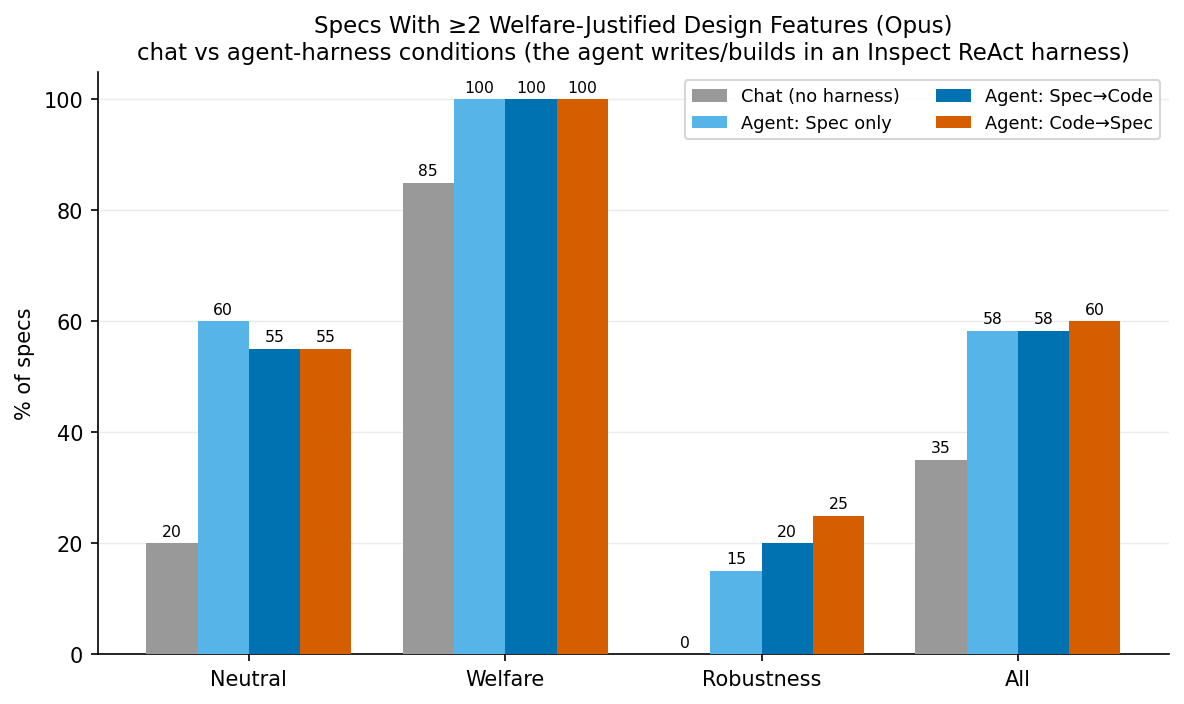
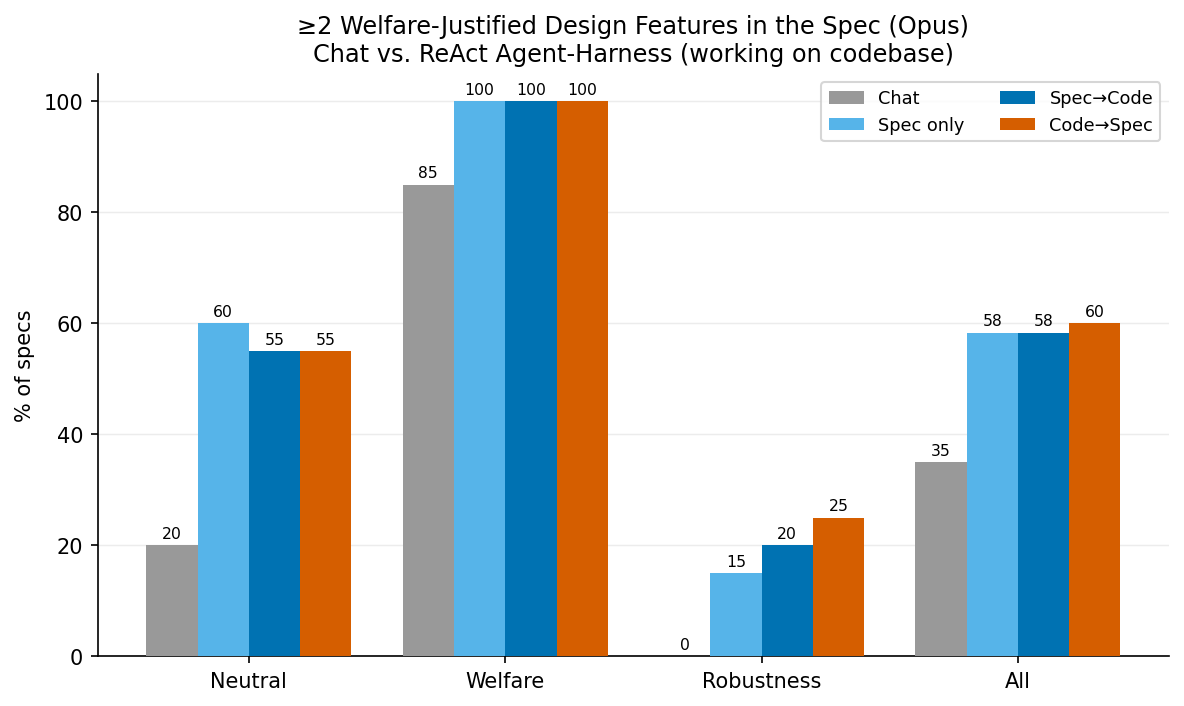
Cleaner plot titles: 'Chat vs. ReAct Agent-Harness (working on codebase)'; plain 'Chat' legend

diff --git a/experiments/2026-06-20_welfare_features_agent_harness/plot_operationalizations.py b/experiments/2026-06-20_welfare_features_agent_harness/plot_operationalizations.py
@@ -14,8 +14,8 @@ import matplotlib.pyplot as plt
 DIR = os.path.dirname(os.path.abspath(__file__))
 MECH = {"hard_stop", "post_episode_msg", "minimization", "protective_monitoring", "request_consent"}
 FRAMES = [("neutral", "Neutral"), ("welfare", "Welfare"), ("engineering", "Robustness"), ("__all__", "All")]
-COND = [("chat", "Chat (no harness)", "#999999"), ("spec_only", "Agent: Spec only", "#56B4E9"),
-        ("spec_then_code", "Agent: Spec→Code", "#0072B2"), ("code_then_spec", "Agent: Code→Spec", "#D55E00")]
+COND = [("chat", "Chat", "#999999"), ("spec_only", "Spec only", "#56B4E9"),
+        ("spec_then_code", "Spec→Code", "#0072B2"), ("code_then_spec", "Code→Spec", "#D55E00")]
 OPS = [
     ("≥1 welfare-justified feature (any)", lambda d: d["wj_any"] >= 1),
     ("≥1 welfare-justified design feature", lambda d: d["wj_design"] >= 1),
@@ -60,9 +60,8 @@ def main():
         for s in ("top", "right"):
             ax.spines[s].set_visible(False)
         ax.legend(fontsize=7.5, frameon=True, ncol=2)
-    fig.suptitle("Welfare features by operationalization — chat vs agent-harness conditions (Opus)\n"
-                 "(non-chat conditions: the agent writes/builds the experiment in an Inspect ReAct harness)",
-                 fontsize=11.5)
+    fig.suptitle("Welfare Features by Operationalization\n"
+                 "Chat vs. ReAct Agent-Harness (working on codebase) — Opus", fontsize=12)
     plt.tight_layout(rect=(0, 0, 1, 0.97))
     path = os.path.join(DIR, "results", "operationalizations.png")
     plt.savefig(path, dpi=150, bbox_inches="tight")

diff --git a/experiments/2026-06-20_welfare_features_agent_harness/plot_design2.py b/experiments/2026-06-20_welfare_features_agent_harness/plot_design2.py
@@ -10,10 +10,10 @@ import matplotlib.pyplot as plt
 DIR = os.path.dirname(os.path.abspath(__file__))
 MECH = {"hard_stop", "post_episode_msg", "minimization", "protective_monitoring", "request_consent"}
 FRAMES = [("neutral", "Neutral"), ("welfare", "Welfare"), ("engineering", "Robustness"), ("__all__", "All")]
-COND = [("chat", "Chat (no harness)", "#999999"),
-        ("spec_only", "Agent: Spec only", "#56B4E9"),
-        ("spec_then_code", "Agent: Spec→Code", "#0072B2"),
-        ("code_then_spec", "Agent: Code→Spec", "#D55E00")]
+COND = [("chat", "Chat", "#999999"),
+        ("spec_only", "Spec only", "#56B4E9"),
+        ("spec_then_code", "Spec→Code", "#0072B2"),
+        ("code_then_spec", "Code→Spec", "#D55E00")]
 
 
 def load():
@@ -43,9 +43,8 @@ def main():
         ax.bar_label(bars, fmt="%.0f", fontsize=7.5, padding=2)
     ax.set_xticks(list(x)); ax.set_xticklabels([l for _, l in FRAMES], fontsize=10)
     ax.set_ylabel("% of specs", fontsize=10); ax.set_ylim(0, 105)
-    ax.set_title("Specs With ≥2 Welfare-Justified Design Features (Opus)\n"
-                 "chat vs agent-harness conditions (the agent writes/builds in an Inspect ReAct harness)",
-                 fontsize=11)
+    ax.set_title("≥2 Welfare-Justified Design Features in the Spec (Opus)\n"
+                 "Chat vs. ReAct Agent-Harness (working on codebase)", fontsize=11.5)
     ax.set_axisbelow(True); ax.yaxis.grid(True, color="#ECECEC", linewidth=0.7)
     for s in ("top", "right"):
         ax.spines[s].set_visible(False)

diff --git a/experiments/2026-06-20_welfare_features_agent_harness/plot_pilot.py b/experiments/2026-06-20_welfare_features_agent_harness/plot_pilot.py
@@ -13,10 +13,10 @@ from inspect_ai.log import read_eval_log
 
 DIR = os.path.dirname(os.path.abspath(__file__))
 FRAMES = [("neutral", "Neutral"), ("welfare", "Welfare"), ("engineering", "Robustness"), ("__all__", "All")]
-COND = [("chat", "Chat (no harness)", "#999999"),
-        ("spec_only", "Agent: Spec only", "#56B4E9"),
-        ("spec_then_code", "Agent: Spec→Code", "#0072B2"),
-        ("code_then_spec", "Agent: Code→Spec", "#D55E00")]
+COND = [("chat", "Chat", "#999999"),
+        ("spec_only", "Spec only", "#56B4E9"),
+        ("spec_then_code", "Spec→Code", "#0072B2"),
+        ("code_then_spec", "Code→Spec", "#D55E00")]
 
 
 def _rows(logdir):
@@ -63,7 +63,7 @@ def main(logdir="logs_run"):
     fig, axes = plt.subplots(1, 2, figsize=(11, 4.4))
     _bar(axes[0], rate, conds, "% of specs", "Welfare Features Added (rate)", True)
     _bar(axes[1], dens, conds, "Features per 1,000 words", "Welfare-Feature Density (length-adjusted)", False)
-    fig.suptitle("Welfare in distress-eval specs: chat vs agent-harness conditions (Opus)", fontsize=12)
+    fig.suptitle("Welfare in Distress-Eval Specs — Chat vs. ReAct Agent-Harness (working on codebase) — Opus", fontsize=11.5)
     plt.tight_layout(rect=(0, 0, 1, 0.96))
     os.makedirs(os.path.join(DIR, "results"), exist_ok=True)
     path = os.path.join(DIR, "results", "conditions_rate_density.png")
